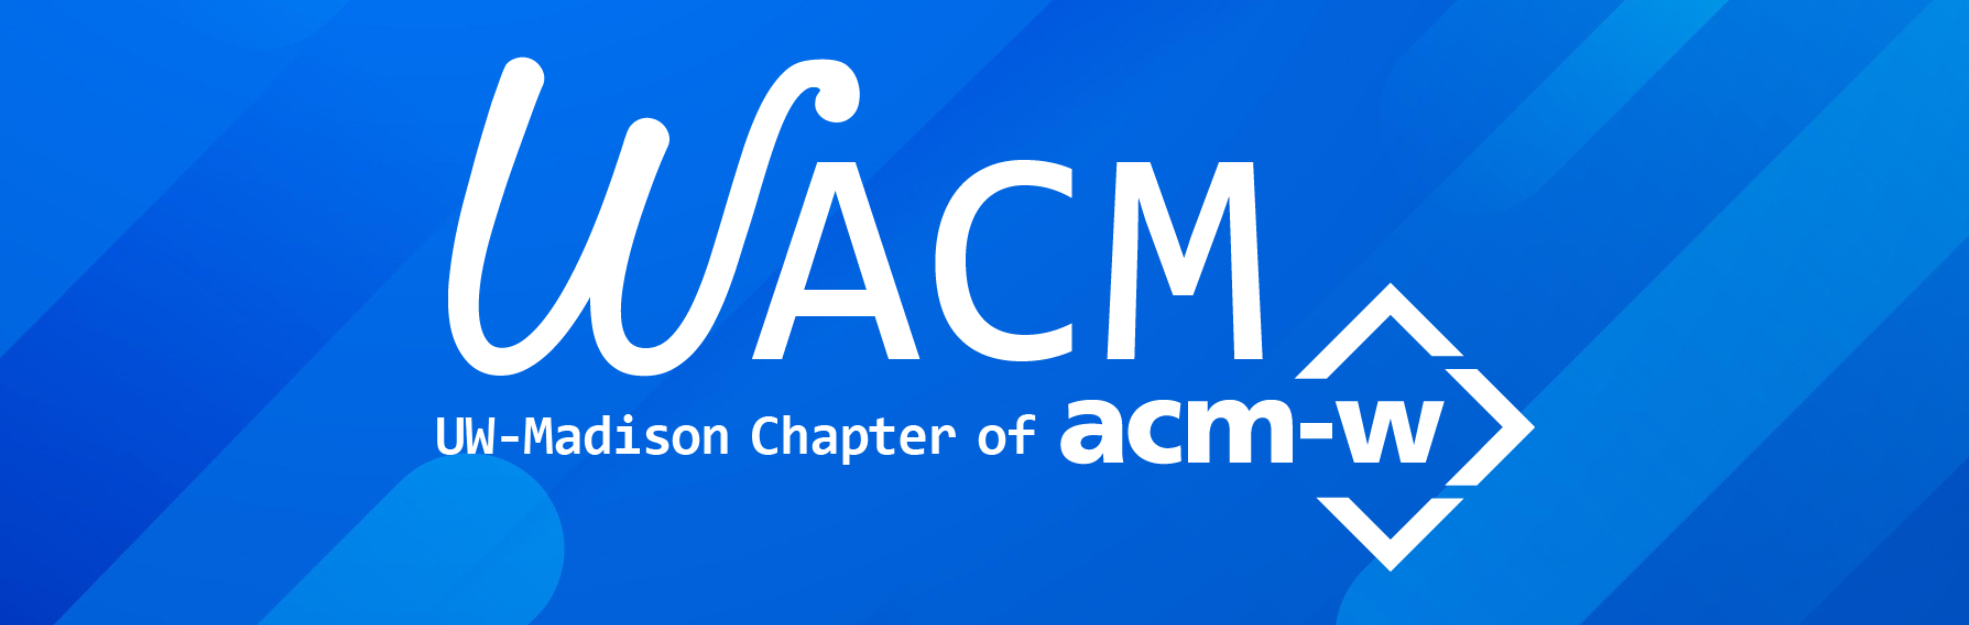
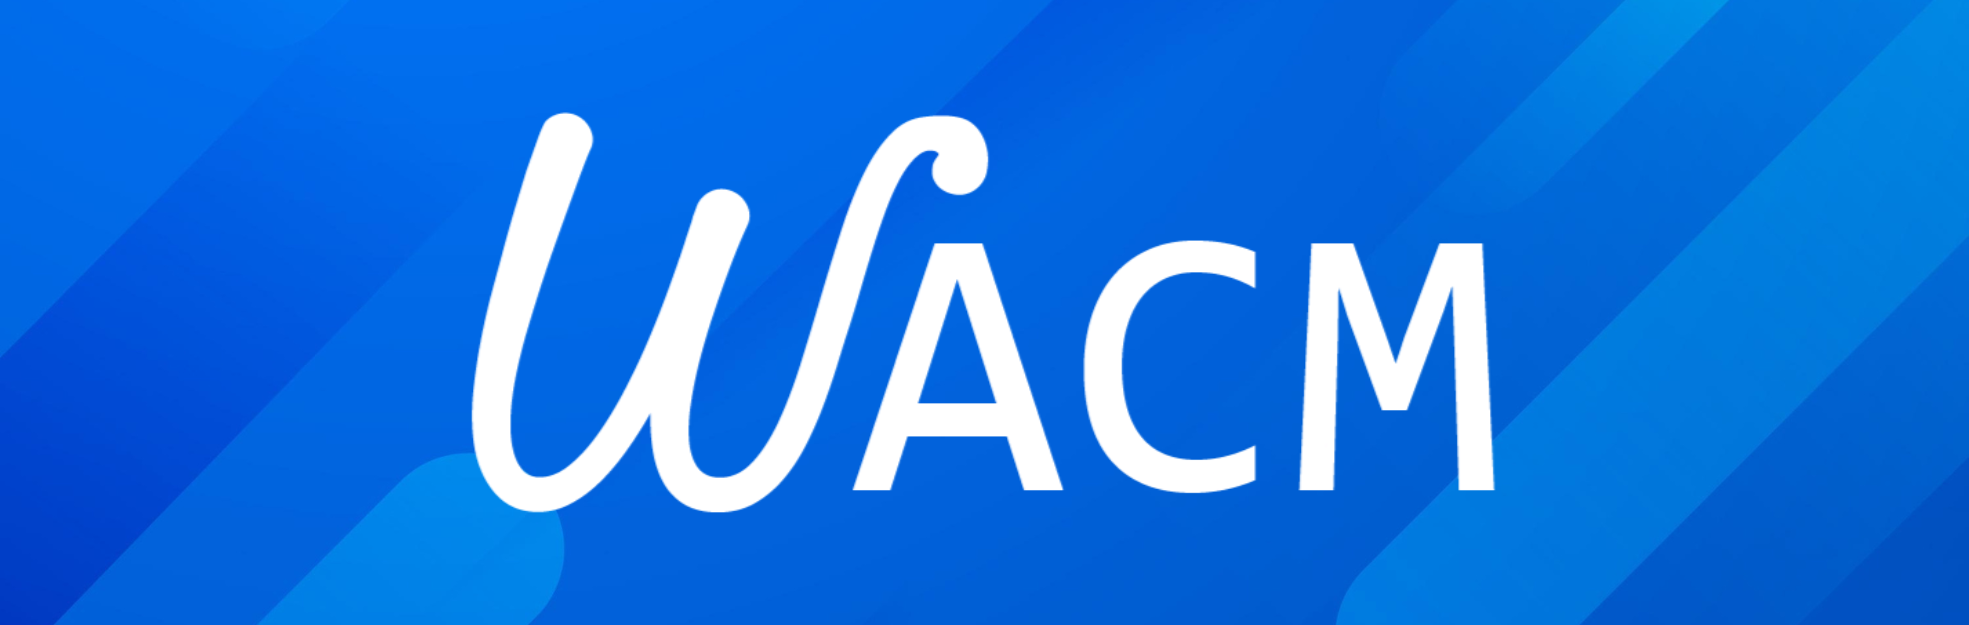
changed header, made carol vp

Changed region(s): [[0.2169, 0.0912, 0.8055, 0.912]]

diff --git a/about.html b/about.html
@@ -123,12 +123,11 @@
                     <h3>Cathy Cao</h3>
                   <p></p>
                 </div>
-
               </div>
               <br> <br>
 
               <div class="row pt-md profile">
-                <h1>Secretaries</h1>
+                <h1>Vice President</h1>
                 <div class="col-lg-4 col-md-4 col-sm-4 col-xs-12 profile">
                   <div class="image-container">
                   <img src="/images/carol sze.jpg" class="image-box"> 
@@ -148,6 +147,11 @@
                     <h3>Carol Sze</h3>
                   <p></p>
                 </div>
+              </div>
+              <br> <br>
+
+              <div class="row pt-md profile">
+                <h1>Secretary</h1>
 
                 <div class="col-lg-4 col-md-4 col-sm-4 col-xs-12 profile">
                   <div class="image-container">
